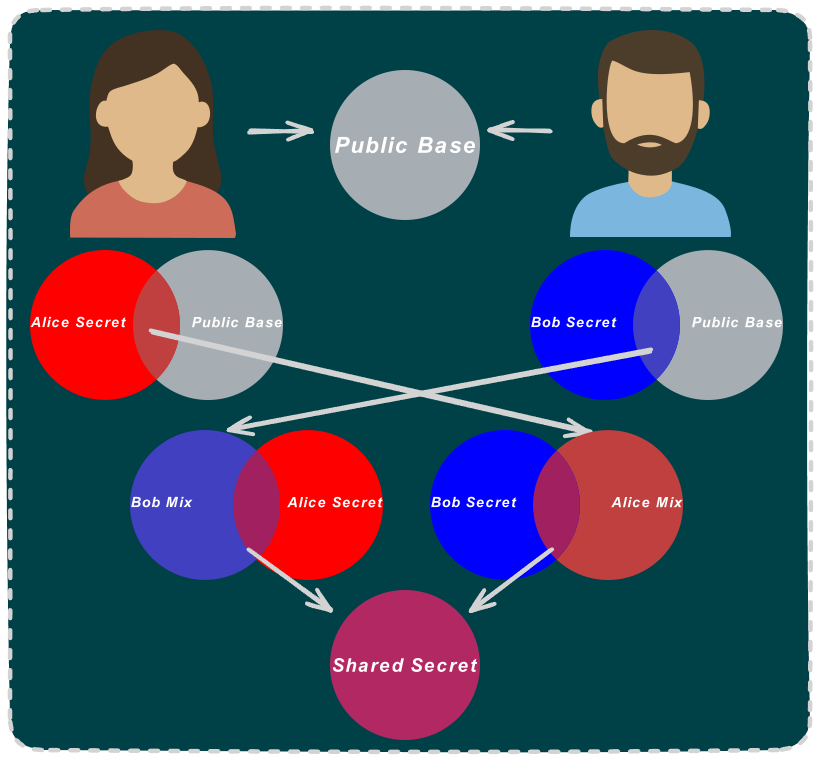
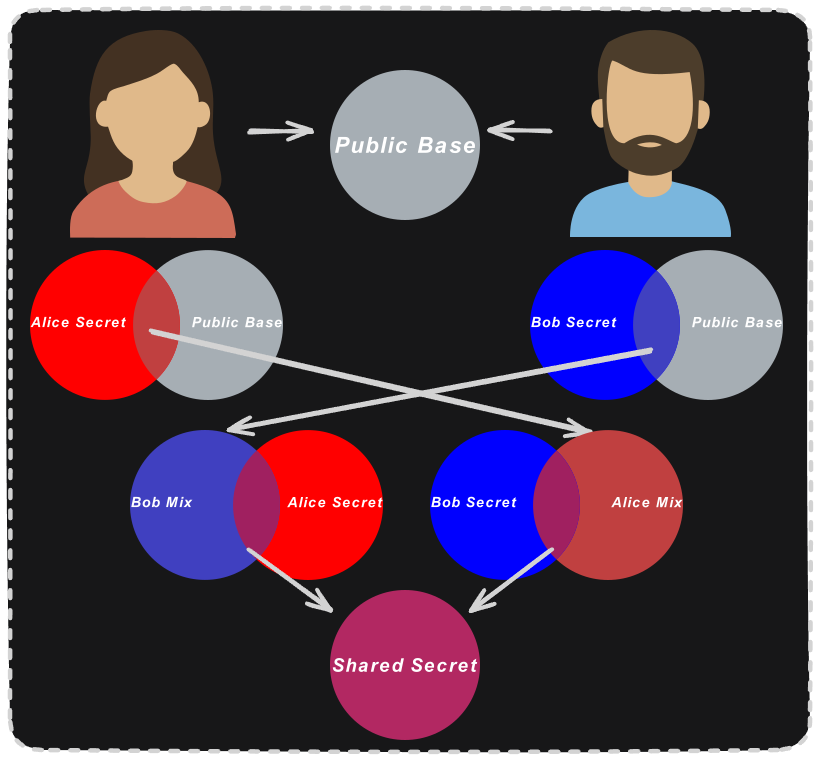
docs(blog): attribute Diffie-Hellman illustration and update image
Added proper attribution to the "Diffie-Hellman as Colors" diagram with author
credit and Creative Commons 4.0 license. Also replaced the image with a new
version under the same path.

diff --git a/content/posts/cryptography-and-the-quantum-problem/post.md b/content/posts/cryptography-and-the-quantum-problem/post.md
@@ -116,7 +116,8 @@ To explain how this works, let’s start with a simple analogy using **colors**.
   exchanged colors can't reconstruct it without knowing the secrets.
 
 ![Diffie-Hellman as Colors](/blog/posts/cryptography-and-the-quantum-problem/diffie-hellman-as-colors.png)
-*Diffie-Hellman as Colors Scheme*
+*Diffie-Hellman as Colors Scheme by [gabrielzschmitz](https://gabrielzschmitz.github.io),
+licensed under [Creative Commons 4.0 Attribution license](https://creativecommons.org/licenses/by/4.0/).*
 
 ---
 
